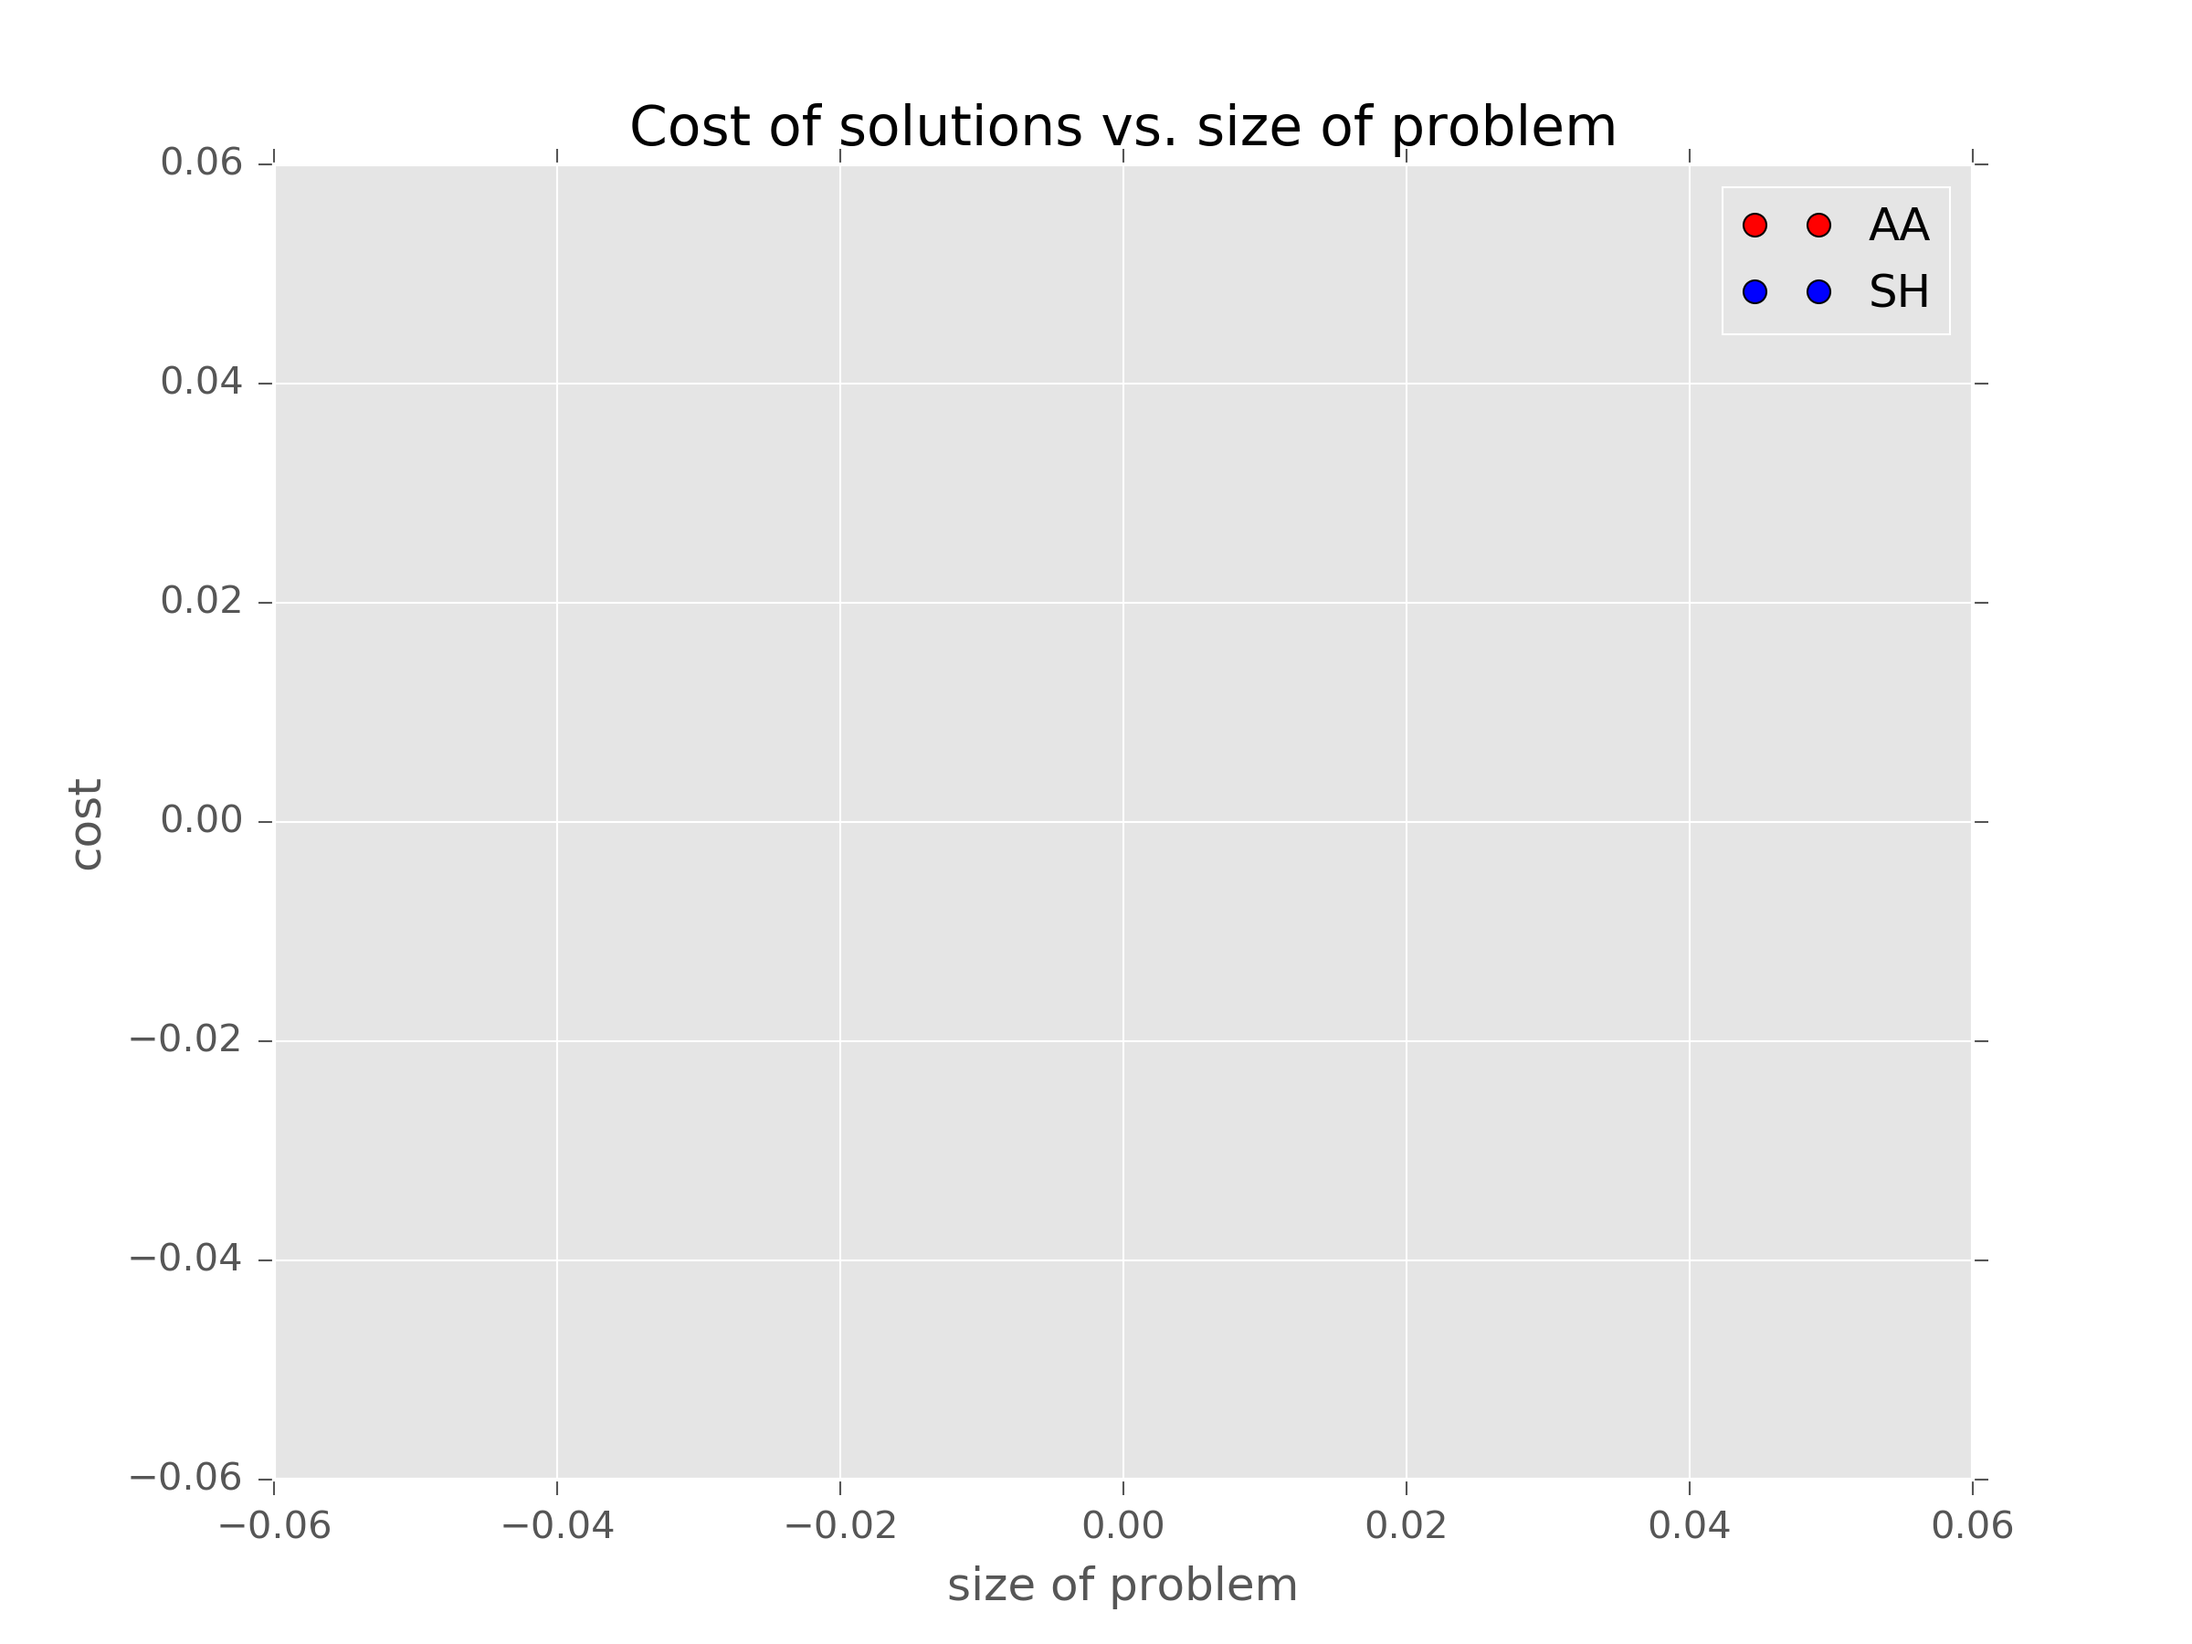
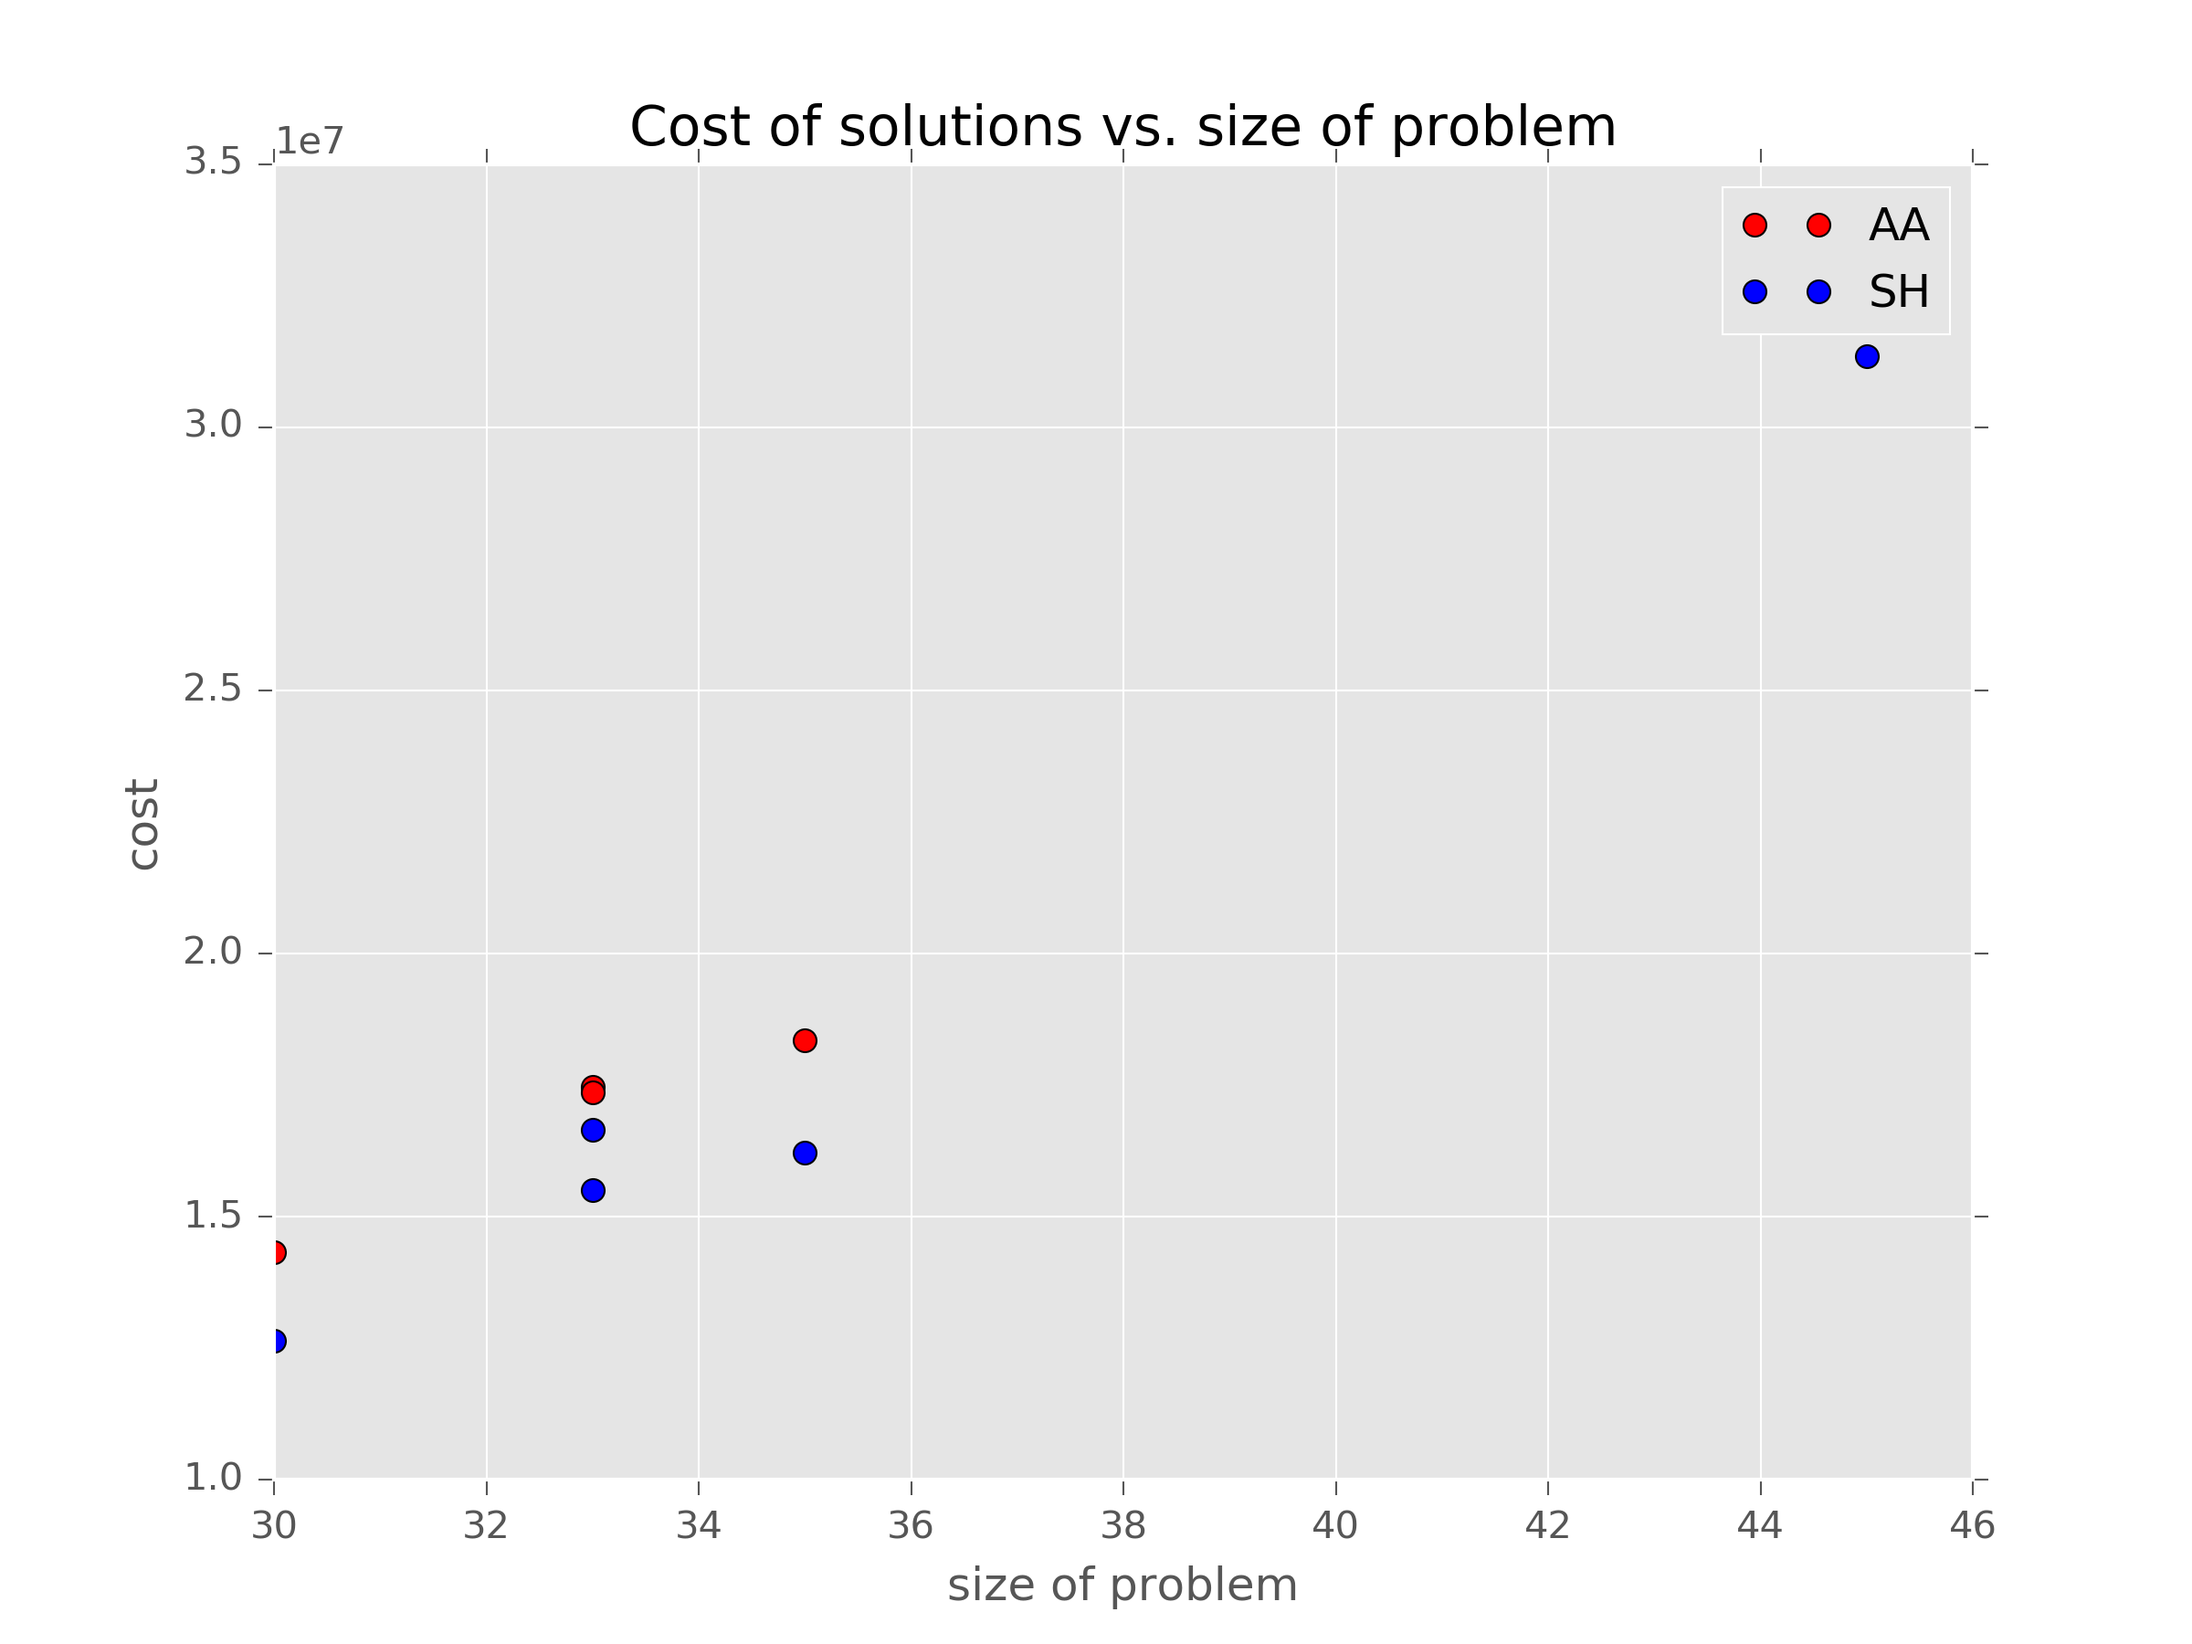
Testing visuals.

diff --git a/pysrc/july_29.py b/pysrc/july_29.py
@@ -11,8 +11,8 @@ variable = []
 aa_response = []
 sh_response = []
 
-for i in range(10):
-    size = rng.randint(100, 500)
+for i in range(5):
+    size = rng.randint(25, 50)
     a = VMM(size, 2*size)
     a.generate()
     try:
@@ -20,6 +20,8 @@ for i in range(10):
         sh = shuffle(a, size*2*size)
         sh_cost = calc_cost(sh, a)
         aa_cost = calc_cost(aa, a)
+        print(sh_cost)
+        print(aa_cost)
         variable.append(size)
         sh_response.append(sh_cost)
         aa_response.append(aa_cost)
